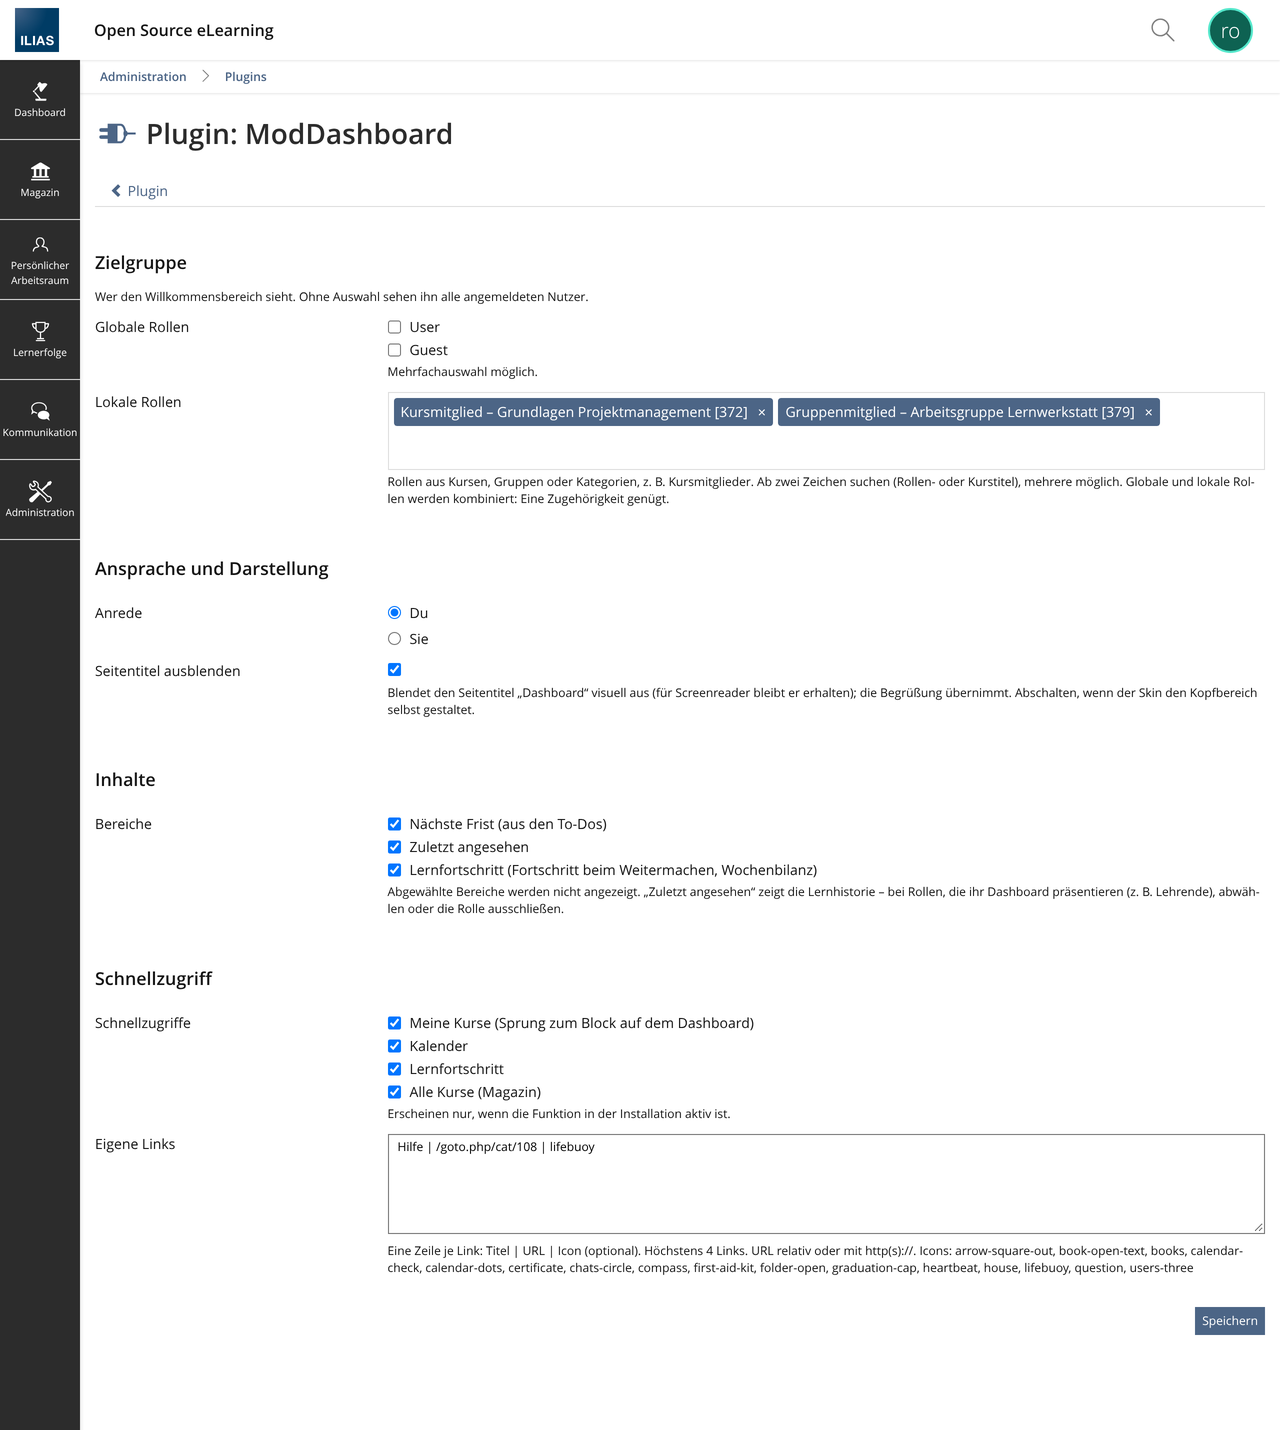
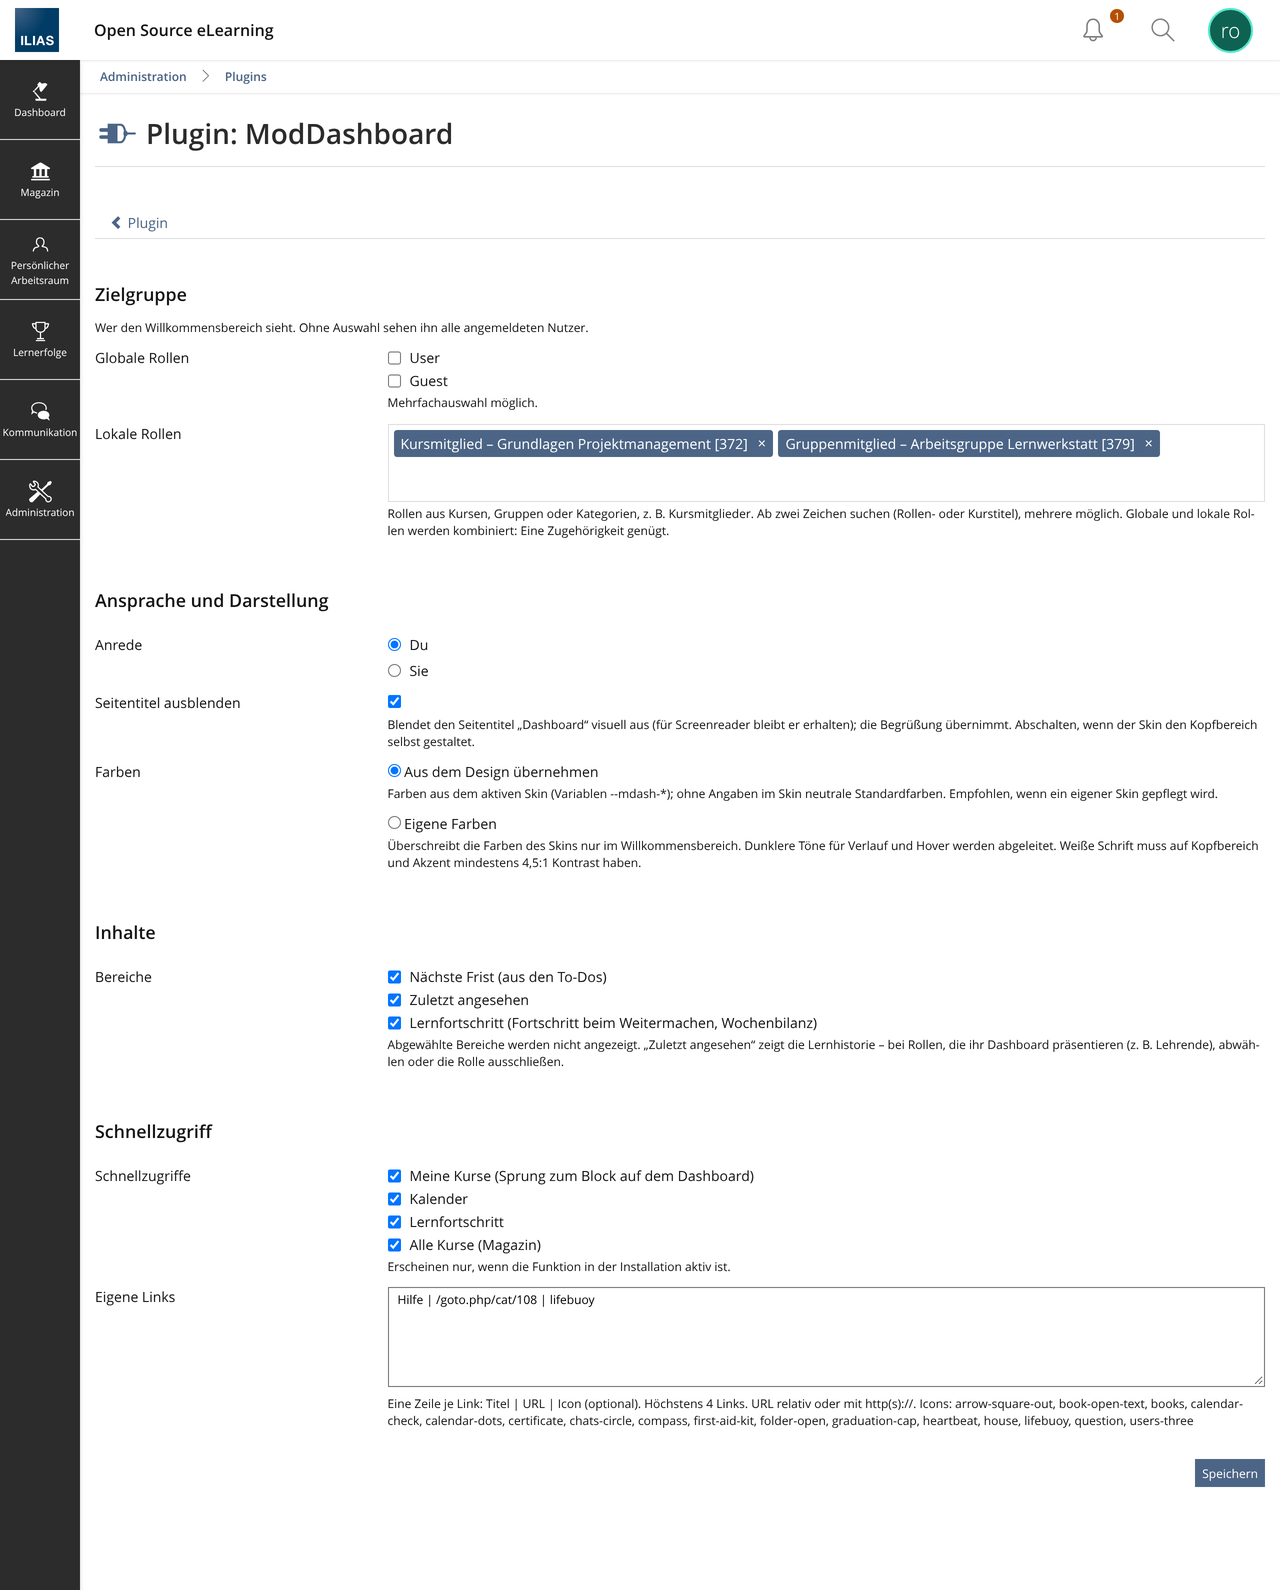
ModDashboard 1.1.0 – Farben in der Konfiguration
Farbquelle wählbar: aus dem Design (Skin-Variablen bzw. neutrale Werte,
Standard) oder eigene Farben per Farbwähler für Kopfbereich, Akzent,
Frist-Markierung und Hintergrund „Weitermachen“. Dunklere Töne werden
abgeleitet, Kontrast unter 4,5:1 wird abgelehnt. Ausgabe nur als
geprüfte #RRGGBB-Werte in CSS-Variablen am Willkommensbereich.

diff --git a/templates/tpl.home.html b/templates/tpl.home.html
@@ -1,4 +1,4 @@
-<section class="mdash{HIDE_TITLE}" aria-labelledby="mdash-greeting">
+<section class="mdash{HIDE_TITLE}"{STYLE} aria-labelledby="mdash-greeting">
 	<div class="mdash__hero">
 		<div class="mdash__intro">
 			<!-- BEGIN date -->

diff --git a/classes/class.ilModDashboardPlugin.php b/classes/class.ilModDashboardPlugin.php
@@ -20,6 +20,14 @@ class ilModDashboardPlugin extends ilUserInterfaceHookPlugin
     ];
     public const MAX_CUSTOM_LINKS = 4;
 
+    /** Eigene Farben (nur #RRGGBB); weitere Töne werden daraus abgeleitet */
+    public const COLOR_DEFAULTS = [
+        'base' => '#4C6586',    // Kopfbereich, Verlauf wird abgedunkelt
+        'accent' => '#3A5677',  // Buttons und Fortschritt
+        'urgent' => '#F2C14E',  // Kante bei Fristen unter 48 Stunden
+        'soft' => '#EEF2F6',    // Hintergrund „Weitermachen“
+    ];
+
     /**
      * Eigene Icon-Bibliothek: SVG-Dateien in diesem Unterordner ergänzen die mitgelieferten Icons
      * oder ersetzen sie bei gleichem Namen. Alles wird lokal ausgeliefert (inline), es entsteht
@@ -43,6 +51,7 @@ class ilModDashboardPlugin extends ilUserInterfaceHookPlugin
         'roles' => [],                                       // globale Rollen; leer (und keine lokalen) = alle
         'local_roles' => [],                                 // lokale Rollen (obj_id), z. B. Kursmitglieder
         'hide_title' => true,                                // Seitentitel „Dashboard“ visuell ausblenden
+        'colors' => ['mode' => 'design'] + self::COLOR_DEFAULTS, // design = Skin bzw. neutrale Standardwerte
         'sections' => ['recent', 'deadline', 'progress'],
         'quick' => ['calendar', 'progress', 'repository'],   // 'courses' ist optional
         'custom' => '',                                      // "Titel | URL | Icon" je Zeile
@@ -257,6 +266,92 @@ class ilModDashboardPlugin extends ilUserInterfaceHookPlugin
             }
         }
         return array_values(array_unique($ids));
+    }
+
+    /**
+     * Farbwerte aus dem Formular (ILIAS\Data\Color oder Text) als #RRGGBB.
+     * @param array<string,mixed> $values
+     * @return array<string,string>
+     */
+    public static function normalizeColors(array $values): array
+    {
+        $out = [];
+        foreach (array_keys(self::COLOR_DEFAULTS) as $k) {
+            $v = $values[$k] ?? '';
+            $out[$k] = strtoupper(is_object($v) && method_exists($v, 'asHex') ? (string) $v->asHex() : (string) $v);
+        }
+        return $out;
+    }
+
+    public static function isHexColor(mixed $v): bool
+    {
+        return is_string($v) && preg_match('/^#[0-9a-fA-F]{6}$/', $v) === 1;
+    }
+
+    /** Kontrastverhältnis nach WCAG 2.x */
+    public static function contrast(string $a, string $b): float
+    {
+        $lum = static function (string $hex): float {
+            $c = array_map(static function (string $p): float {
+                $v = hexdec($p) / 255;
+                return $v <= 0.03928 ? $v / 12.92 : (($v + 0.055) / 1.055) ** 2.4;
+            }, str_split(substr($hex, 1), 2));
+            return 0.2126 * $c[0] + 0.7152 * $c[1] + 0.0722 * $c[2];
+        };
+        [$l1, $l2] = [$lum($a), $lum($b)];
+        return (max($l1, $l2) + 0.05) / (min($l1, $l2) + 0.05);
+    }
+
+    /** Farbe mit Schwarz (amount > 0) mischen */
+    public static function shade(string $hex, float $amount): string
+    {
+        return '#' . implode('', array_map(
+            static fn(string $p): string => sprintf('%02X', (int) round(hexdec($p) * (1 - $amount))),
+            str_split(substr($hex, 1), 2)
+        ));
+    }
+
+    /**
+     * Prüft eigene Farben auf Format und Lesbarkeit (WCAG AA, 4,5:1).
+     * @param array<string,mixed> $c
+     * @return list<string> Sprachvariablen der Probleme
+     */
+    public static function colorProblems(array $c): array
+    {
+        foreach (array_keys(self::COLOR_DEFAULTS) as $k) {
+            if (!self::isHexColor($c[$k] ?? null)) {
+                return ['cfg_color_invalid'];
+            }
+        }
+        $p = [];
+        if (self::contrast('#FFFFFF', $c['base']) < 4.5) {
+            $p[] = 'cfg_color_low_base';
+        }
+        if (self::contrast('#FFFFFF', $c['accent']) < 4.5) {
+            $p[] = 'cfg_color_low_accent';
+        }
+        if (self::contrast('#161616', $c['soft']) < 4.5) {
+            $p[] = 'cfg_color_low_soft';
+        }
+        return $p;
+    }
+
+    /**
+     * Custom Properties für das style-Attribut des Willkommensbereichs, '' im Modus „Aus dem Design“.
+     * Nur geprüfte #RRGGBB-Werte – keine freie CSS-Eingabe, daher keine Möglichkeit, Code einzuschleusen.
+     */
+    public function colorStyle(): string
+    {
+        $c = (array) $this->conf('colors');
+        if (($c['mode'] ?? 'design') !== 'custom' || self::colorProblems($c) !== []) {
+            return '';
+        }
+        $vars = [
+            'hero-1' => $c['base'], 'hero-2' => self::shade($c['base'], 0.3), 'hero-3' => self::shade($c['base'], 0.52),
+            'accent' => $c['accent'], 'accent-dark' => self::shade($c['accent'], 0.25),
+            'urgent' => $c['urgent'], 'soft' => $c['soft'], 'track' => self::shade($c['soft'], 0.2),
+        ];
+        return implode(';', array_map(fn($k, $v) => '--mdash-' . $k . ':' . strtoupper($v), array_keys($vars), $vars));
     }
 
     protected function afterUninstall(): void

diff --git a/classes/class.ilModDashboardConfigGUI.php b/classes/class.ilModDashboardConfigGUI.php
@@ -36,6 +36,9 @@ class ilModDashboardConfigGUI extends ilPluginConfigGUI
                 $pl->setConf('hide_title', (bool) $data['look']['hide_title']);
                 $pl->setConf('roles', array_map('intval', $data['audience']['roles'] ?? []));
                 $pl->setConf('local_roles', $pl->localRoleIds((array) ($data['audience']['local_roles'] ?? [])));
+                [$mode, $colors] = $data['look']['colors'];
+                $pl->setConf('colors', ['mode' => $mode === 'custom' ? 'custom' : 'design']
+                    + ($mode === 'custom' ? ilModDashboardPlugin::normalizeColors((array) $colors) : (array) $pl->conf('colors')));
                 $pl->setConf('sections', array_values($data['content']['sections'] ?? []));
                 $pl->setConf('quick', array_values($data['quick']['quick'] ?? []));
                 $pl->setConf('custom', trim((string) $data['quick']['custom']));
@@ -94,6 +97,21 @@ class ilModDashboardConfigGUI extends ilPluginConfigGUI
         )))->acquireParameter(['moddash'], 'term');
         $local = array_map(fn(int $id) => $pl->localRoleLabel($id), (array) $pl->conf('local_roles'));
 
+        // Farben: aus dem Design (Skin) oder eigene Werte; eigene Werte werden auf Format und Kontrast geprüft
+        $colors = (array) $pl->conf('colors') + ilModDashboardPlugin::COLOR_DEFAULTS;
+        $color_check = $DIC->refinery()->custom()->constraint(
+            fn($v) => !is_array($v) || ($v[0] ?? '') !== 'custom' || ilModDashboardPlugin::colorProblems(ilModDashboardPlugin::normalizeColors((array) ($v[1] ?? []))) === [],
+            fn($txt, $v) => implode(' ', array_map(
+                fn($k) => $pl->txt($k),
+                ilModDashboardPlugin::colorProblems(ilModDashboardPlugin::normalizeColors((array) ($v[1] ?? [])))
+            ))
+        );
+        $pickers = [];
+        foreach (array_keys(ilModDashboardPlugin::COLOR_DEFAULTS) as $k) {
+            $pickers[$k] = $f->colorSelect($pl->txt('cfg_color_' . $k), $pl->txt('cfg_color_' . $k . '_info'))
+                ->withValue((string) $colors[$k]);
+        }
+
         $custom_check = $DIC->refinery()->custom()->constraint(
             fn($v) => $pl->invalidCustomLines((string) $v) === [],
             fn($txt, $v) => sprintf($pl->txt('cfg_custom_invalid'), implode(', ', $pl->invalidCustomLines((string) $v)))
@@ -121,6 +139,12 @@ class ilModDashboardConfigGUI extends ilPluginConfigGUI
                         ->withValue((string) $pl->conf('address')),
                     'hide_title' => $f->checkbox($pl->txt('cfg_hide_title'), $pl->txt('cfg_hide_title_info'))
                         ->withValue((bool) $pl->conf('hide_title')),
+                    'colors' => $f->switchableGroup([
+                        'design' => $f->group([], $pl->txt('cfg_colors_design'), $pl->txt('cfg_colors_design_info')),
+                        'custom' => $f->group($pickers, $pl->txt('cfg_colors_custom'), $pl->txt('cfg_colors_custom_info')),
+                    ], $pl->txt('cfg_colors'))
+                        ->withValue(($colors['mode'] ?? 'design') === 'custom' ? 'custom' : 'design')
+                        ->withAdditionalTransformation($color_check),
                 ], $pl->txt('cfg_sec_look')),
                 'content' => $f->section([
                     'sections' => $f->multiSelect($pl->txt('cfg_sections'), $opts('cfg_opt_', ['deadline', 'recent', 'progress']), $pl->txt('cfg_sections_info'))

diff --git a/classes/class.ilModDashboardUIHookGUI.php b/classes/class.ilModDashboardUIHookGUI.php
@@ -89,6 +89,8 @@ class ilModDashboardUIHookGUI extends ilUIHookPluginGUI
             $tpl->setVariable('DATE', $this->esc($date));
             $tpl->parseCurrentBlock();
         }
+        $style = $this->pl->colorStyle();
+        $tpl->setVariable('STYLE', $style !== '' ? ' style="' . $this->esc($style) . '"' : '');
         $tpl->setVariable('HIDE_TITLE', $this->pl->conf('hide_title') ? ' mdash--hide-title' : '');
         $tpl->setVariable('GREETING', $this->esc($this->t('greeting_' . $part) . ($name !== '' ? ', ' . $name : '')));
         $tpl->setVariable('LEAD', $this->esc($this->t($resume === null ? 'lead_new' : 'lead_back')));

diff --git a/plugin.php b/plugin.php
@@ -4,7 +4,7 @@
 // SPDX-License-Identifier: GPL-3.0-only
 
 $id = "moddash";
-$version = "1.0.0";
+$version = "1.1.0";
 $ilias_min_version = "11.0";
 $ilias_max_version = "11.999";
 $responsible = "Peter Reichartz";

diff --git a/README.md b/README.md
@@ -56,6 +56,7 @@ Administration → Plugins → ModDashboard → Konfigurieren
 | Anrede | Du oder Sie (deutsche Texte) |
 | Anzeigen für (globale Rollen) | mehrere globale Rollen wählbar |
 | Lokale Rollen | Rollen aus Kursen, Gruppen, Kategorien – per Suche mit Autovervollständigung (ab zwei Zeichen, Rollen- oder Kurstitel), mehrere möglich. Globale und lokale Rollen werden kombiniert: eine Zugehörigkeit genügt. Beide leer = alle |
+| Farben | „Aus dem Design übernehmen“ (Standard: Skin-Variablen `--mdash-*` bzw. neutrale Werte) oder „Eigene Farben“ per Farbwähler für Kopfbereich, Akzent, Frist-Markierung und Hintergrund „Weitermachen“; dunklere Töne werden abgeleitet, zu geringer Kontrast (unter 4,5:1) wird beim Speichern abgelehnt |
 | Seitentitel ausblenden | Standard an: Titel „Dashboard“ nur für Screenreader. Aus, wenn der Skin den Kopfbereich selbst gestaltet |
 | Bereiche | Nächste Frist, Zuletzt angesehen, Lernfortschritt |
 | Schnellzugriffe | Meine Kurse, Kalender, Lernfortschritt, Alle Kurse |
@@ -91,6 +92,11 @@ Standardwerte sind neutral (Delos-Blau). Ein Skin setzt eigene Werte auf `:root`
 ```
 
 Die Standardwerte stehen in `:where(:root)` und verlieren deshalb immer gegen den Skin.
+Alternativ ohne Skin-Änderung: In der Konfiguration „Eigene Farben“ wählen. Diese gelten nur im
+Willkommensbereich und haben Vorrang vor dem Skin; Schrift und alles andere kommen weiter aus dem Skin.
+
+SCSS-Variablen lassen sich nicht zur Laufzeit einstellen – ILIAS kompiliert sie nicht, sie stecken fest
+im CSS des Skins. Das Plugin arbeitet deshalb mit CSS-Variablen.
 Auf Weiß als Text-/Buttonfarbe mindestens 4,5:1 Kontrast einhalten.
 
 ## Icons
@@ -124,6 +130,8 @@ Der Ordner bleibt bei `git pull` unangetastet, solange die Dateien nicht ins Rep
   auf den eigenen Host zeigen; sonst erzeugt das Plugin den Permalink selbst.
   `javascript:`, `data:` und protokoll-relative Adressen werden verworfen.
 - Eigene Links: nur relativ oder http(s).
+- Eigene Farben: nur Werte im Format `#RRGGBB` (geprüft), ausgegeben als CSS-Variablen am
+  Willkommensbereich – keine freie CSS-Eingabe.
 - Icons (auch eigene) werden vor dem Ausliefern bereinigt: keine Skripte, Event-Handler,
   Links oder externen Verweise; keine Verbindung zu Icon-Diensten.
 - Fehler im Plugin werden geloggt; das Dashboard erscheint dann ohne Willkommensbereich.

diff --git a/CHANGELOG.md b/CHANGELOG.md
@@ -1,5 +1,12 @@
 # Changelog
 
+## 1.1.0 – 2026-10-26
+
+- Farben in der Konfiguration: „Aus dem Design übernehmen“ (Standard) oder eigene Farben per
+  Farbwähler für Kopfbereich, Akzent, Frist-Markierung und Hintergrund „Weitermachen“.
+  Dunklere Töne werden abgeleitet; zu geringer Kontrast (unter 4,5:1) wird beim Speichern abgelehnt.
+  Ausgabe nur als geprüfte `#RRGGBB`-Werte in CSS-Variablen am Willkommensbereich.
+
 ## 1.0.0 – 2026-10-26
 
 Erste öffentliche Version.
